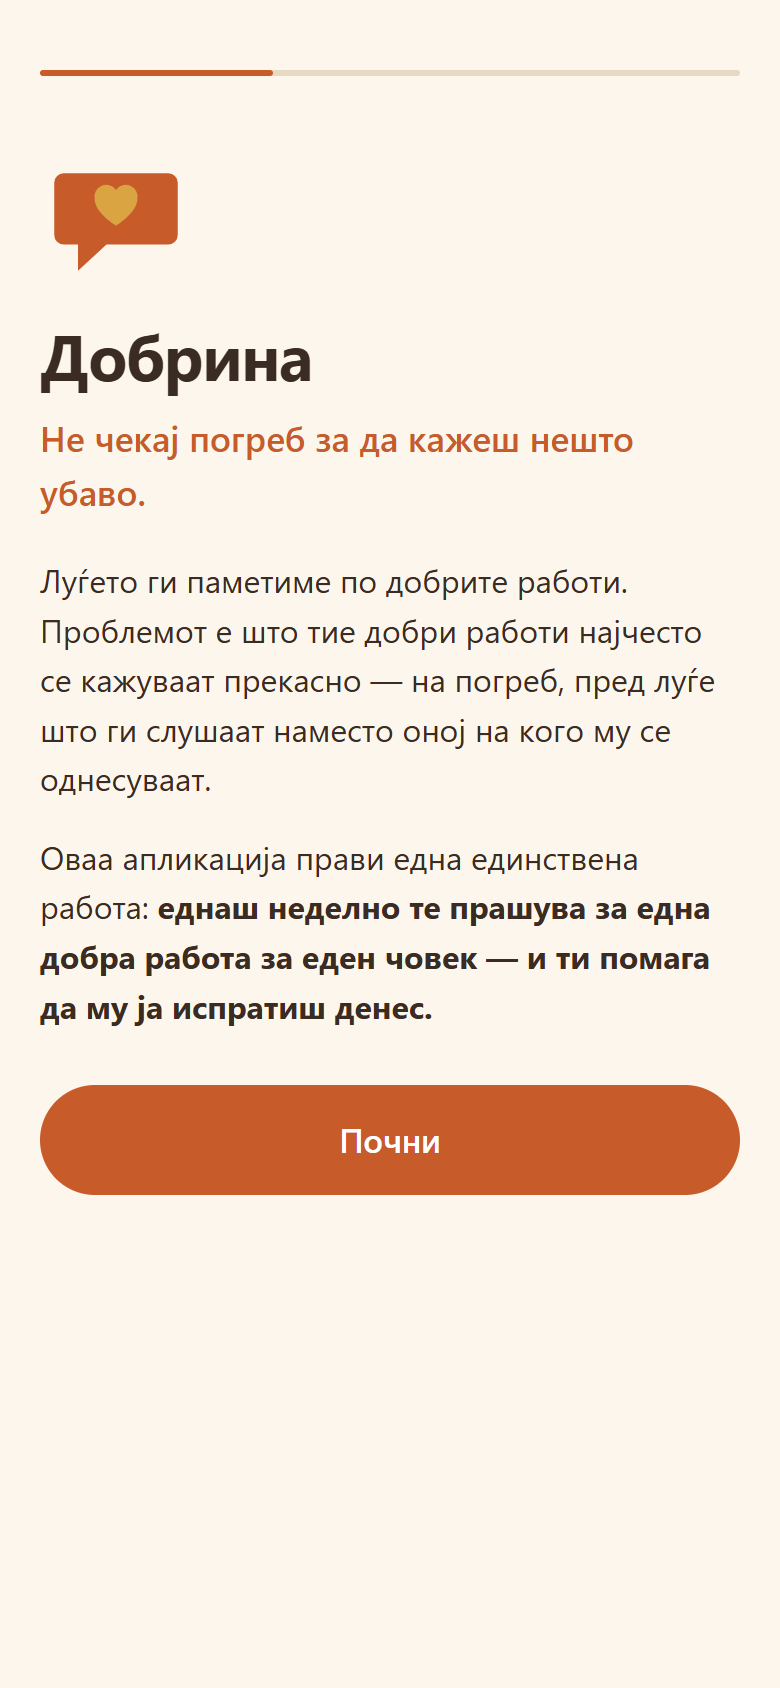
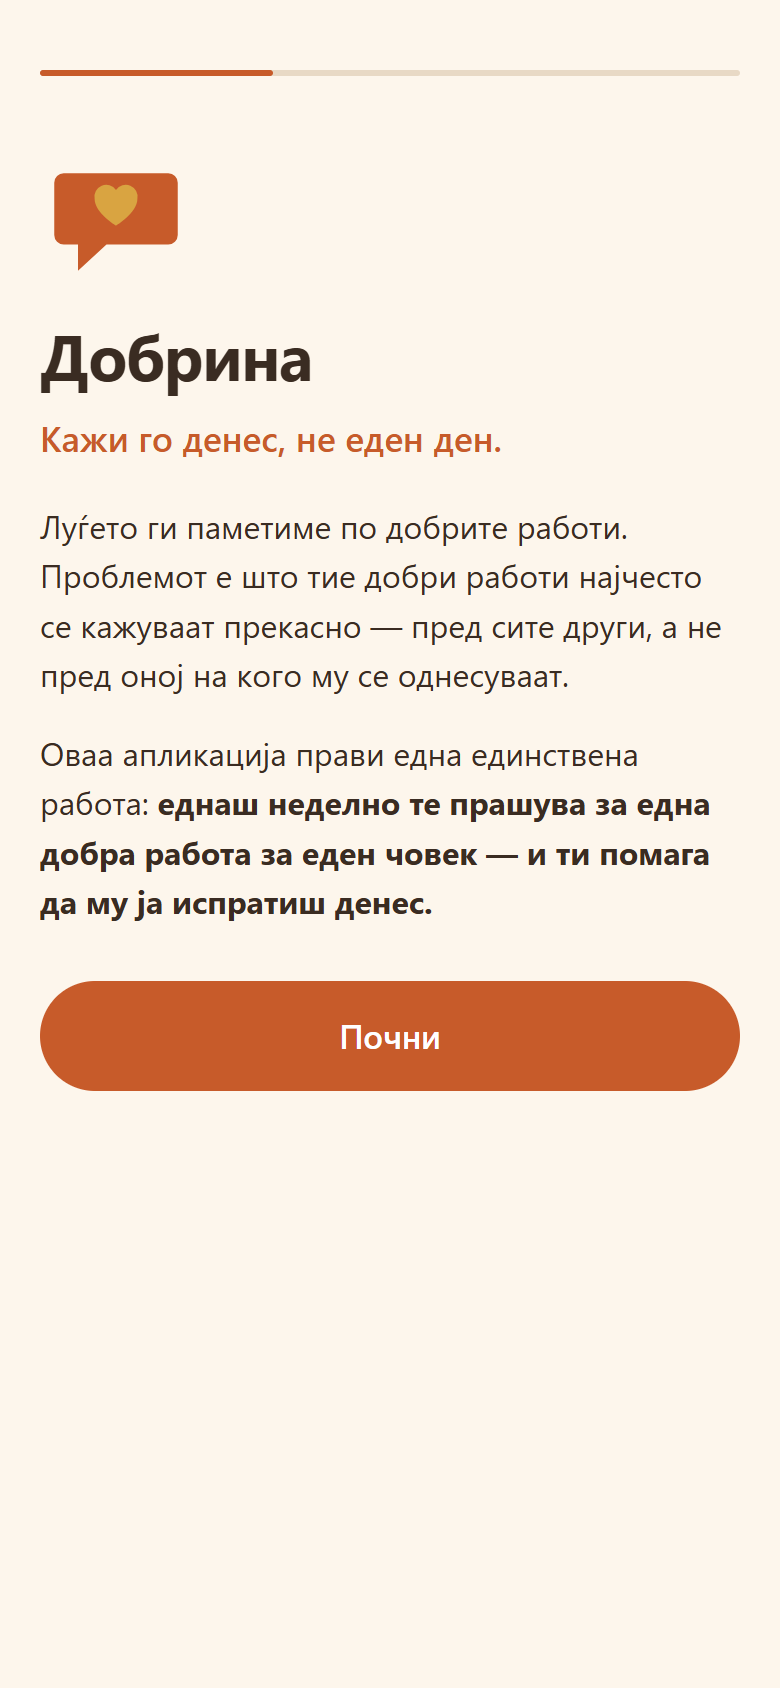
v1.0.1 — тргнат зборот „погреб“ од целиот текст
Насловот е сега „Кажи го денес, не еден ден.“ — во апликацијата, на
страницата за преземање, во README и во описот на репото. Онбординг
параграфот повеќе не именува повод, само дека зборовите одат кај погрешна
публика. Сликите се обновени, зашто онбординг екранот го носи насловот.

Changed region(s): [[0.0308, 0.2464, 0.9538, 0.7085]]

diff --git a/docs/index.html b/docs/index.html
@@ -4,9 +4,9 @@
 <meta charset="utf-8">
 <meta name="viewport" content="width=device-width, initial-scale=1">
 <meta name="theme-color" content="#fdf6ec">
-<title>Добрина — не чекај погреб за да кажеш нешто убаво</title>
+<title>Добрина — кажи го денес, не еден ден</title>
 <meta name="description" content="Еднаш неделно едно прашање за еден човек. Триесет секунди глас — и го испраќаш додека има кому. Бесплатна, офлајн, без сметка, за Android.">
-<meta property="og:title" content="Добрина — не чекај погреб за да кажеш нешто убаво">
+<meta property="og:title" content="Добрина — кажи го денес, не еден ден">
 <meta property="og:description" content="Еднаш неделно едно прашање за еден човек. Триесет секунди глас — и го испраќаш додека има кому.">
 <meta property="og:type" content="website">
 <meta property="og:url" content="https://ljupcho1982.github.io/dobrina/">
@@ -112,12 +112,12 @@
     <img src="icon.svg" alt="">
     <div>
       <h1>Добрина</h1>
-      <p>Кажи го денес.</p>
+      <p>Додека има кому.</p>
     </div>
   </header>
 
   <div class="hero">
-    <h2>Не чекај погреб за да кажеш нешто убаво.</h2>
+    <h2>Кажи го денес, не еден ден.</h2>
     <p>Луѓето ги паметиме по добрите работи — а тие најчесто се кажуваат прекасно, пред луѓе што ги слушаат наместо оној на кого се однесуваат. Оваа апликација прави една работа: еднаш неделно те прашува за една добра работа за еден човек, и ти помага да му ја испратиш <b>додека има кому</b>.</p>
   </div>
 

diff --git a/www/index.html b/www/index.html
@@ -24,8 +24,8 @@
         </svg>
       </div>
       <h1>Добрина</h1>
-      <p class="tagline">Не чекај погреб за да кажеш нешто убаво.</p>
-      <p class="ob-text">Луѓето ги паметиме по добрите работи. Проблемот е што тие добри работи најчесто се кажуваат прекасно — на погреб, пред луѓе што ги слушаат наместо оној на кого му се однесуваат.</p>
+      <p class="tagline">Кажи го денес, не еден ден.</p>
+      <p class="ob-text">Луѓето ги паметиме по добрите работи. Проблемот е што тие добри работи најчесто се кажуваат прекасно — пред сите други, а не пред оној на кого му се однесуваат.</p>
       <p class="ob-text">Оваа апликација прави една единствена работа: <b>еднаш неделно те прашува за една добра работа за еден човек — и ти помага да му ја испратиш денес.</b></p>
       <button class="btn primary big ob-next">Почни</button>
     </div>

diff --git a/www/sw.js b/www/sw.js
@@ -1,4 +1,4 @@
-const CACHE = "dobrina-v1.0.0";
+const CACHE = "dobrina-v1.0.1";
 const ASSETS = ["./", "index.html", "styles.css", "app.js", "data.js", "manifest.json", "icon.svg", "icon-maskable.svg"];
 
 self.addEventListener("install", (e) => {

diff --git a/README.md b/README.md
@@ -1,6 +1,6 @@
 # Добрина
 
-**Не чекај погреб за да кажеш нешто убаво.**
+**Кажи го денес, не еден ден.**
 
 Еднаш неделно, едно прашање за еден човек. Триесет секунди глас. И — ова е целата поента — **го испраќаш веднаш, додека има кому**.
 
@@ -25,7 +25,7 @@
 | Што постои | Што прави | Што му фали |
 |---|---|---|
 | StoryWorth, Remento | старецот пишува домашна задача, семејството добива книга | работата ја врши оној на кого му е најтешко, а наградата ја добива друг |
-| Kudoboard, Tribute | една табла, за еден повод | еднократно, и врзано за роденден или за погреб |
+| Kudoboard, Tribute | една табла, за еден повод | еднократно, и врзано за еден датум — роденден, пензионирање, збогување |
 | мемориjaли | чуваат што останало по некого | не создаваат ништо ново, а датумите болат |
 
 Добрина ја врти насоката: **внукот ја врши работата, дедото ја добива наградата.** Книгата се создава сама, и кога еден ден ќе стане спомен — секој ред во неа веќе бил кажан в лице.
@@ -35,7 +35,7 @@
 - **Писмото на благодарност** е најсилната позната интервенција во позитивната психологија, но ефектот бледее за околу шест месеци ако не се повтори. Значи бара ритам — токму она за што служи апликација.
 - **„Три добри работи“** дневно кревало среќа мерливо до шест месеци по едненеделна вежба.
 - **Реминисценција со стари слики и гласови** мерливо ја крева расположбата и когницијата кај постари луѓе (REMPOS).
-- **„Емоционална прокрастинација“** — јапонското *seizensō* (погреб додека си жив) постои затоа што чекаме уште еден празник, уште една година.
+- **„Емоционална прокрастинација“** — јапонското *seizensō* (обред на збогување додека си жив) постои затоа што чекаме уште еден празник, уште една година.
 
 ## Шест вида записи
 
